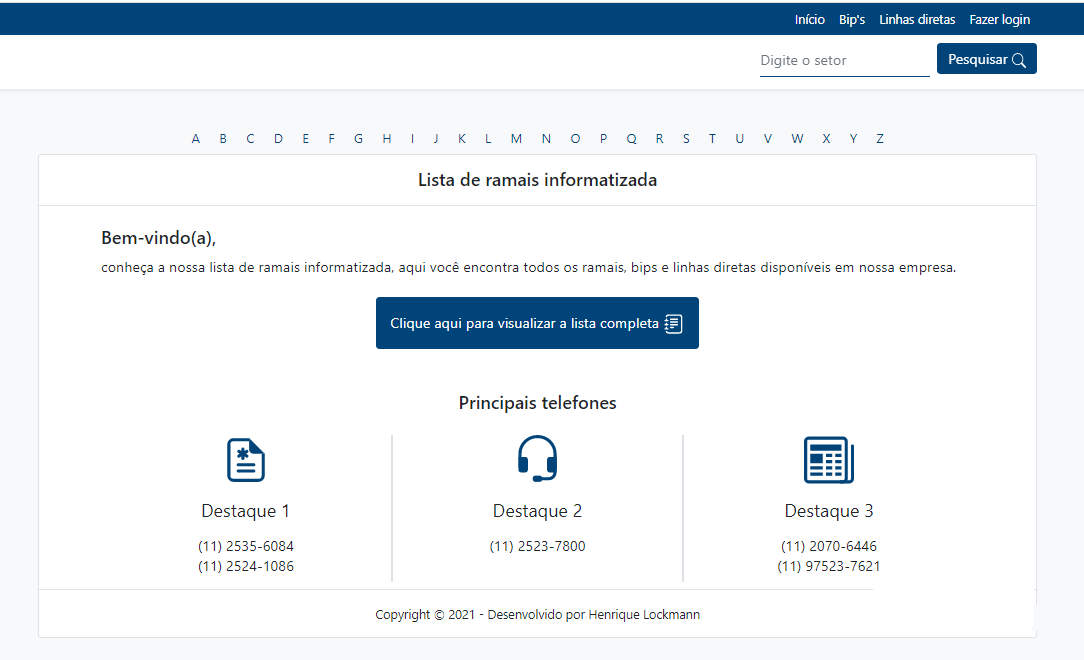
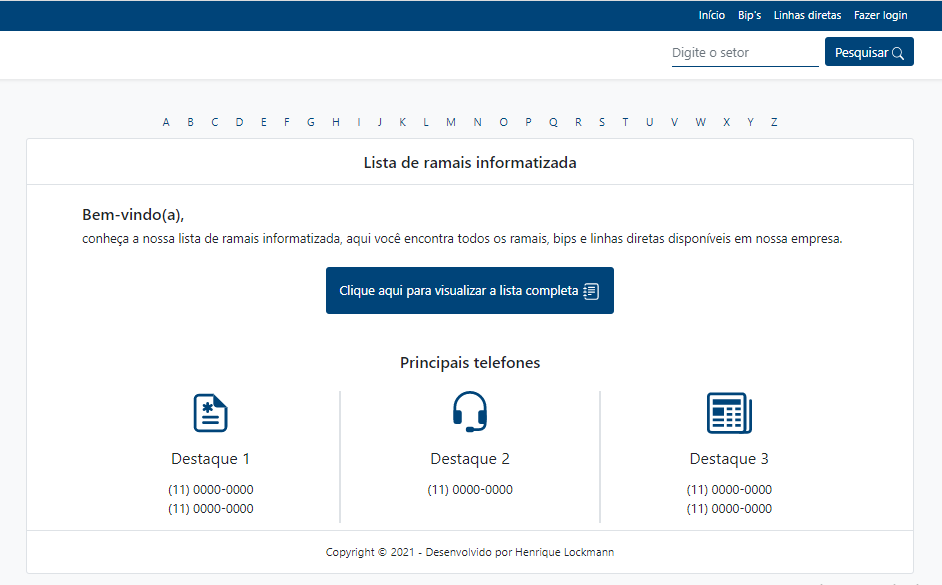
screenshot

diff --git a/main.php b/main.php
@@ -41,8 +41,8 @@
 									</p>
 									<div>
 										<h6 class="font-weight-normal line">
-											(11) 2535-6084<br>
-											(11) 2524-1086
+											(11) 0000-0000<br>
+											(11) 0000-0000
 										</h6>
 										
 									</div>
@@ -65,7 +65,7 @@
 									</p>
 									<div>
 										<h6 class="font-weight-normal line">
-											(11) 2523-7800
+											(11) 0000-0000
 										</h6>
 									</div>
 								</div>
@@ -84,8 +84,8 @@
 									</p>
 									<div>
 										<h6 class="font-weight-normal line">
-											(11) 2070-6446<br>
-											(11) 97523-7621
+											(11) 0000-0000<br>
+											(11) 0000-0000
 										</h6>
 									</div>
 								</div>
